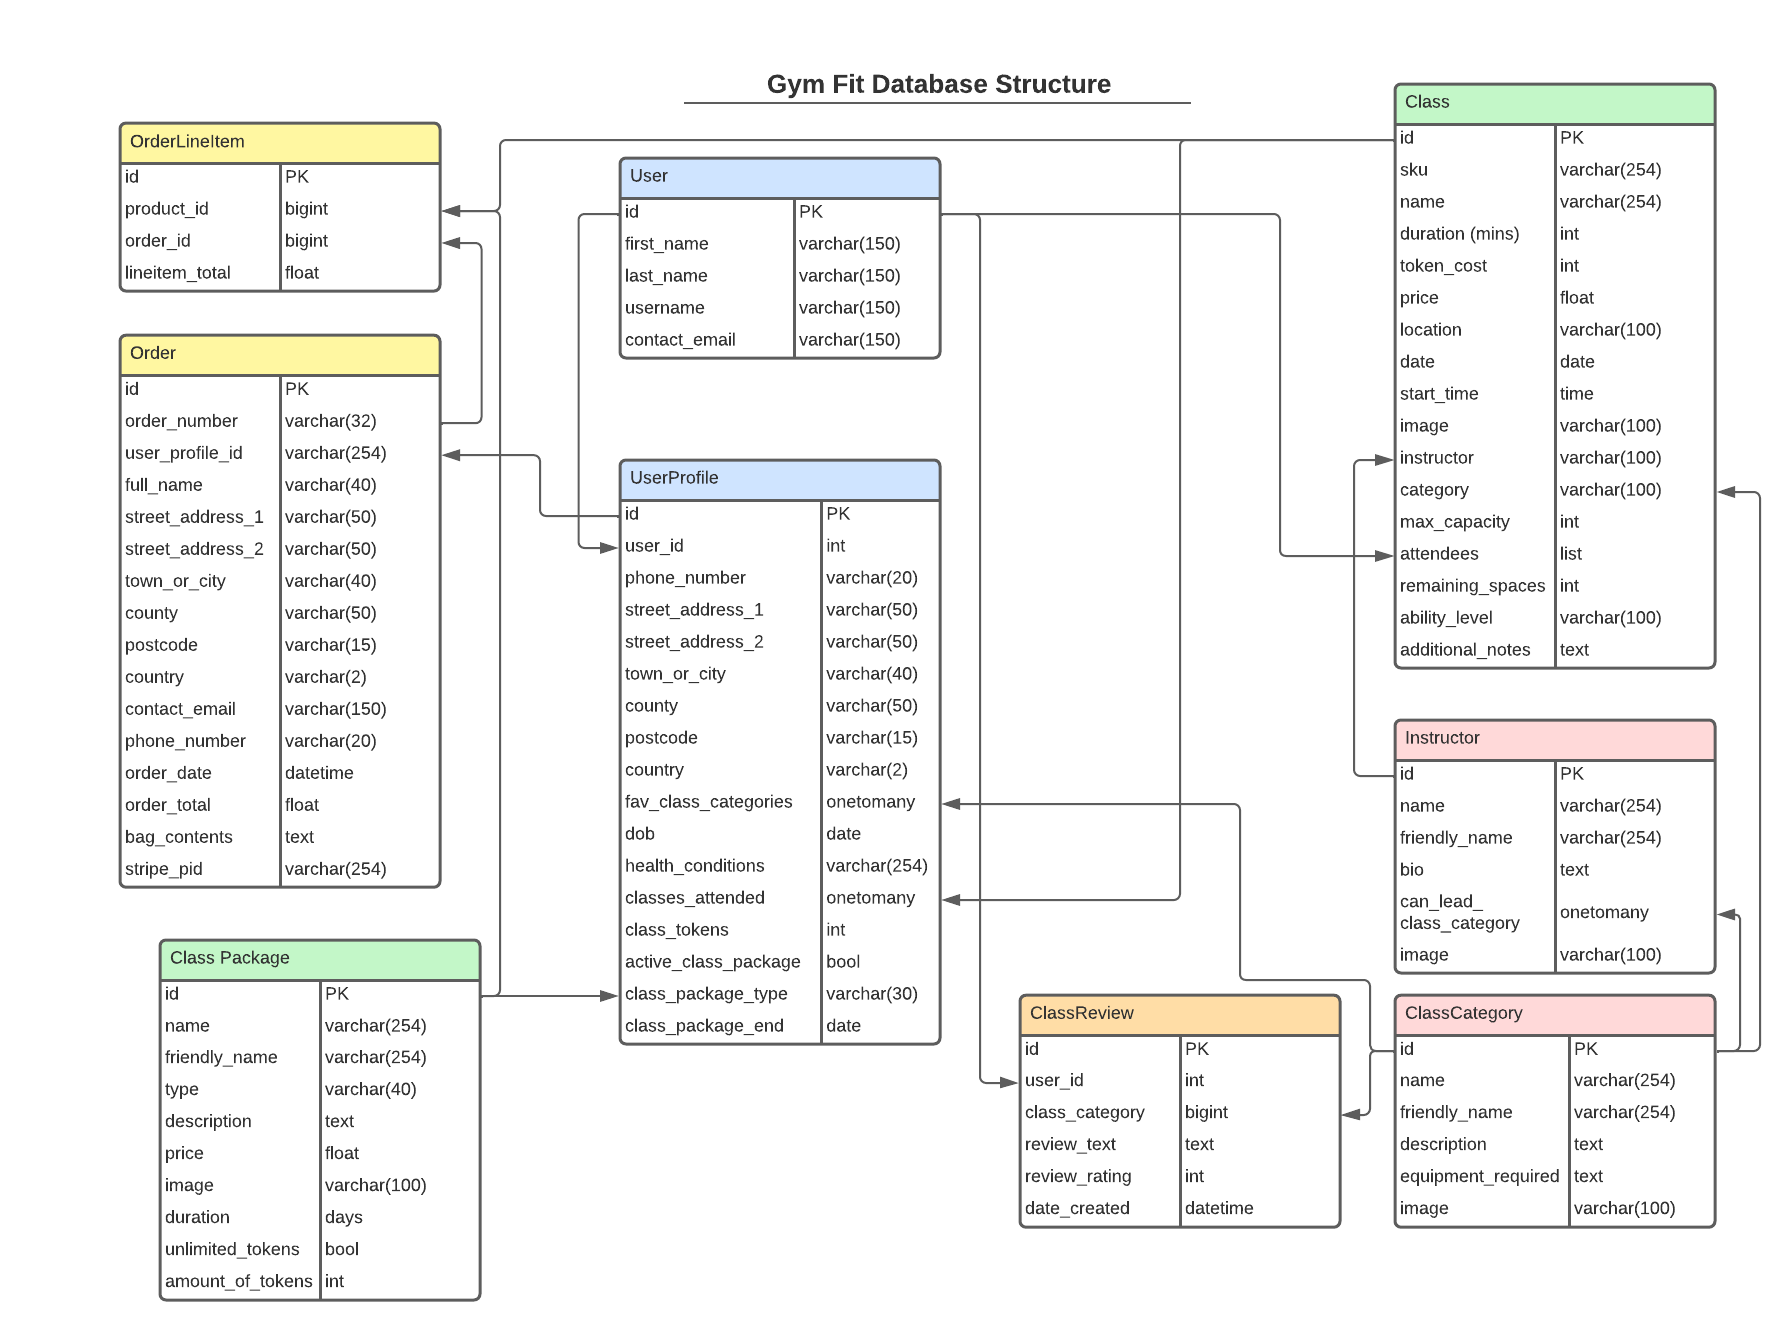
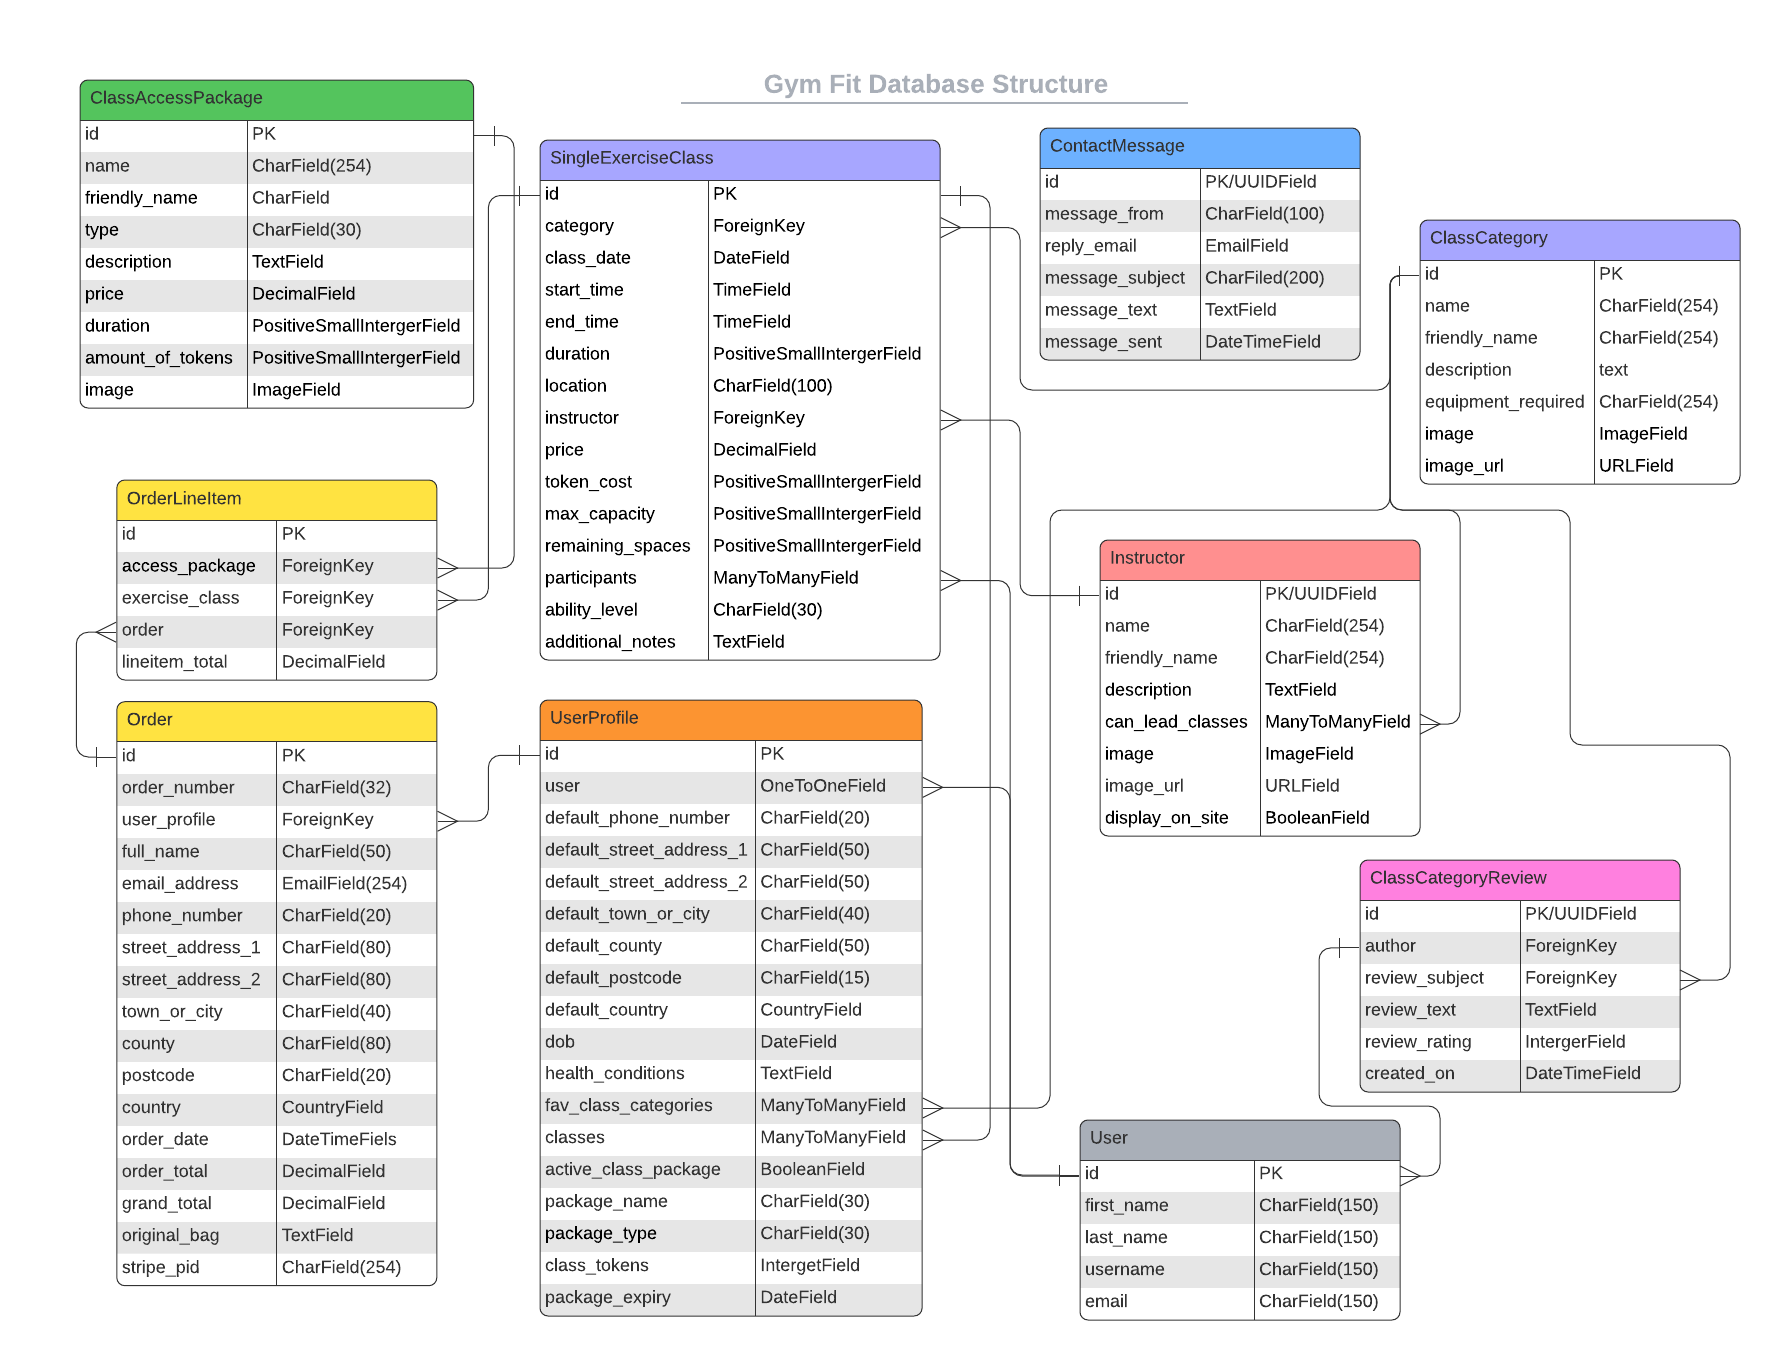
dox: update db schema image and add description for each model

diff --git a/README.md b/README.md
@@ -167,13 +167,38 @@ This diagram shows the database models and the relationship between them.
 
 ![Database Structure and Schema Diagram](readme/assets/gym-fit-db-schema.png)
 
-Color Key:
+Color Key for app that contains the model:
 
-- Yellow - Orders
-- Green - Products/Purchasable items
-- Blue - User/Acounts
-- Red - Categories/Auto Fill Options
-- Orange - Reviews
+- Yellow - checkout
+- Purple - classes
+- Green - products
+- Orange - profiles
+- Grey - allauth
+- Red - instructors
+- Pink - reviews
+- Blue - contact
+
+### **Model Descriptions**
+
+**User** - Provied by AllAuth application and contains basic user information including username, email etc. This model does not link to any other model but if filled by the Order model on occasion.
+
+**UserProfile** - Stores more detail about a User and is created when the User signs up for a profile. Contains default informtion, used in Order and ContactMessage froms, as well as details about the classes the User has booked on to and the Users class packages, for example the amount of tokens they have to use and the package expiry date. This model is uses ClassCategory for its fav_class_category field and SingleExerciseClass for its classes field which are both ManyToManyFields
+
+**SingleExerciseClass** - Model for all the single exercise class events that can be booked onto using a one time payment or class access package. The model including details like the class location, start time, instructor, price etc. This model is uses ClassCategory for its category ForeignKeyField, Instructor for its instructor ForeignKeyField and User for its participants ManyToManyField
+
+**ClassCategory** - Model for the categories of exercise classes that are offered by GymFit. This model includes detail about the categories required equipment and a short description of the class category. This does't use any other model and was created first.
+
+**ClassCategoryReview** - Model contains all the information for a review of a exercise class category like the review author, subject, rating etc. This mode uses the User model for its author field and ClassCategory model for its review_subject field which are both ForeignKeys.
+
+**ClassAccessPackage** - Model for a type or puchasable product that will allow users access to book onto single exercise classes having unlimited access or a limited number of tokens attributed to their UserProfile. This model contains details such as the type of package, price, package duration until expiry etc. This model doesn't use any other models as the data contained with in it is generally used to alter the information in the UserProfile after purchase.
+
+**Order** - Model that contains all the data related to a single user purchase of a Class Access Package and/or Single Exercise Classes. This model includes shipping details, order total price and the Stripe PID. This model uses the UserProfile model through a ForeignKey field.
+
+**OrderLineItem** - A model for individual items in an order including what the item type and what order it belongs to." This model used the SingleExerciseClass, ClassAccessPackage and Order models as ForeignKeys.
+
+**Instructor** - This model contains the information about the instructors that work at GymFit like their description and if they will be shown on the website. This model uses the ClassCategory for its can_lead_classes ManyToManyField.
+
+**ContactMessage** - Model for storing all the messages sent from the contact page to admin including information like senders name, email address and the message. This model doesn't use any other model as the data is stored as strings as there is not the functionality to reply on the site.
 
 In the database, the OrderLineItem model is not necessary however, it has been included for code reusability and to speed up future develpment.
 
